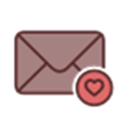
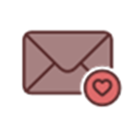
finish contact page

Changed region(s): [[0.0938, 0.2188, 0.9688, 0.8438]]

diff --git a/assets/styles/css/main.css b/assets/styles/css/main.css
@@ -161,6 +161,9 @@ h3{
 	float: left;
 	height: auto;
 	vertical-align: middle;
+	border: thin solid;
+	border-radius: 100px;
+	border-color: #594646;
 }
 .context{
 	width: 175px;
@@ -173,7 +176,7 @@ h3{
 	background-color: white;
 	text-align: center;
 	font-family: 'El Messiri', sans-serif;
-    padding-left: 15px;
+    padding-left: 20px;
     padding-right: 15px;
     padding-bottom: 15px;
     margin-left: 75px;
